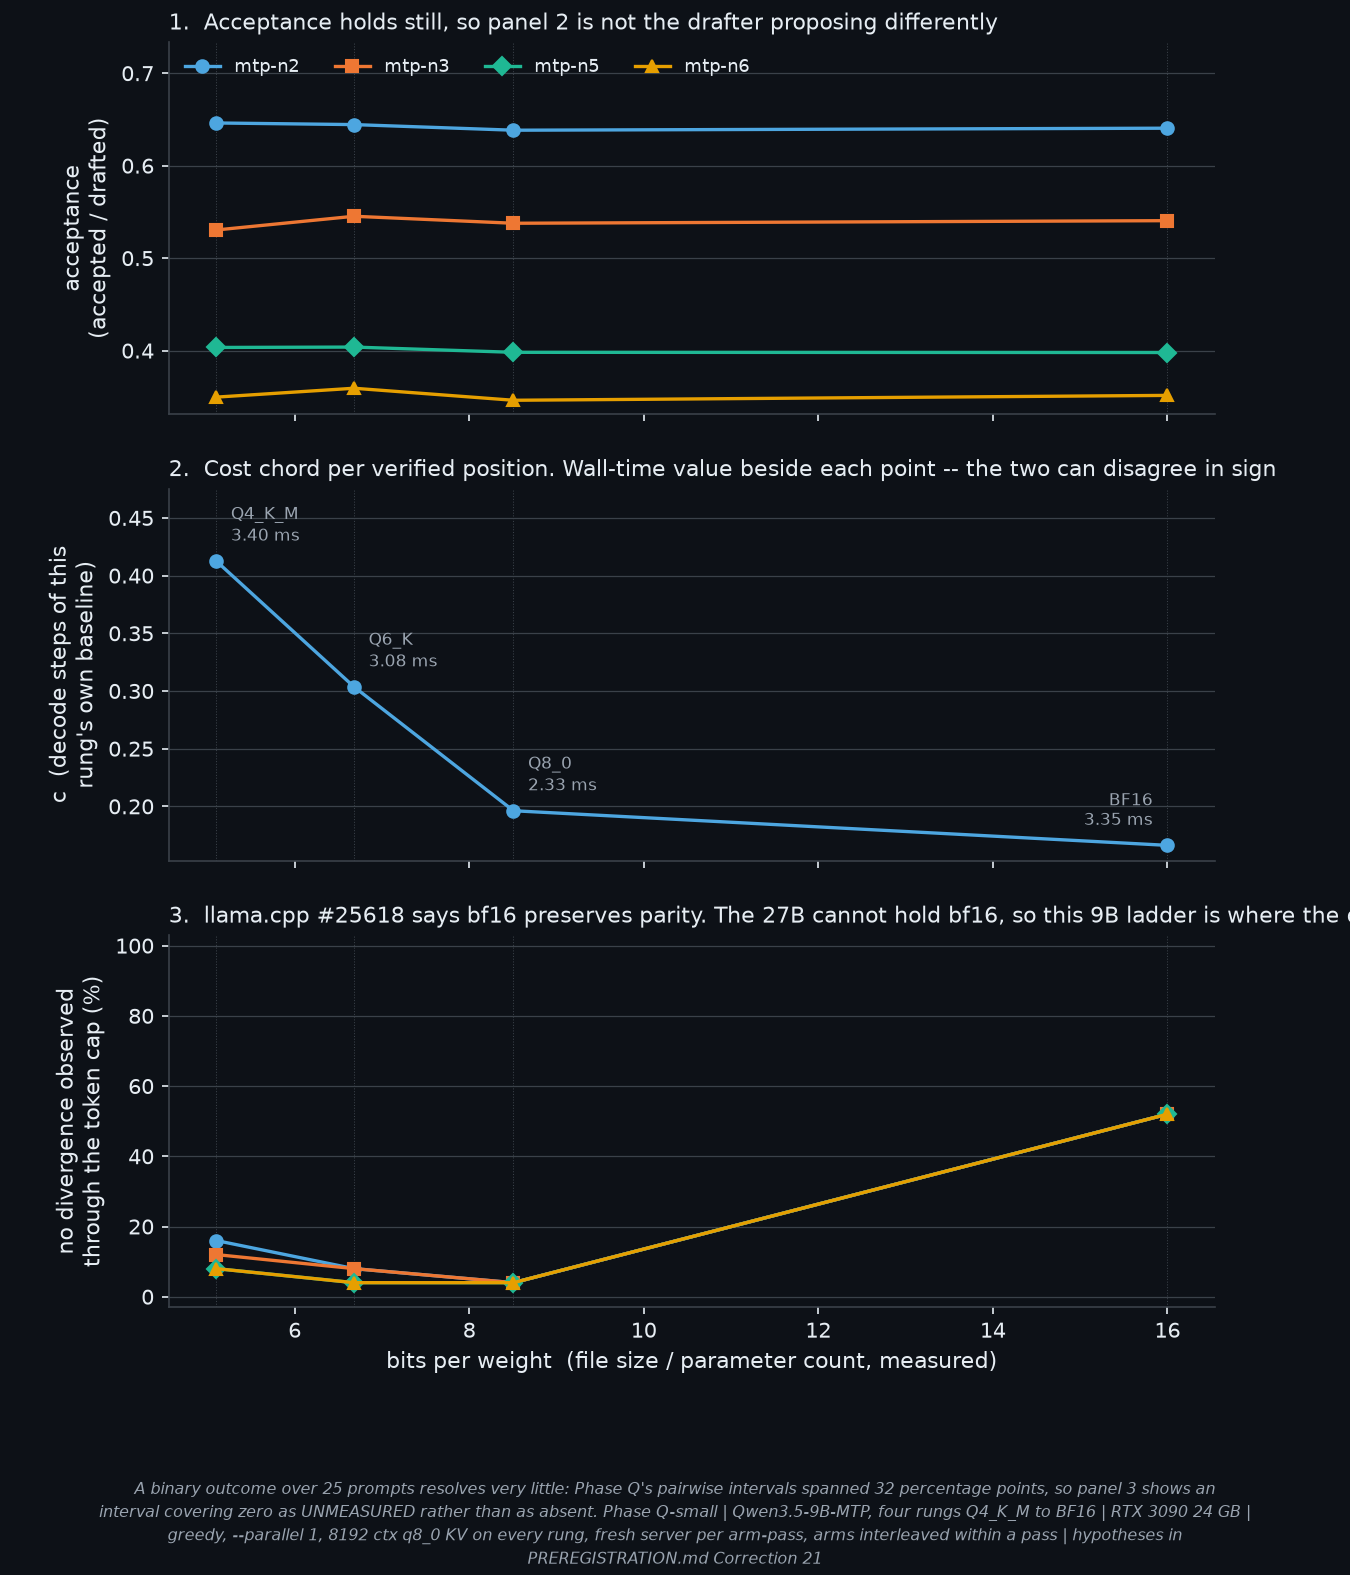
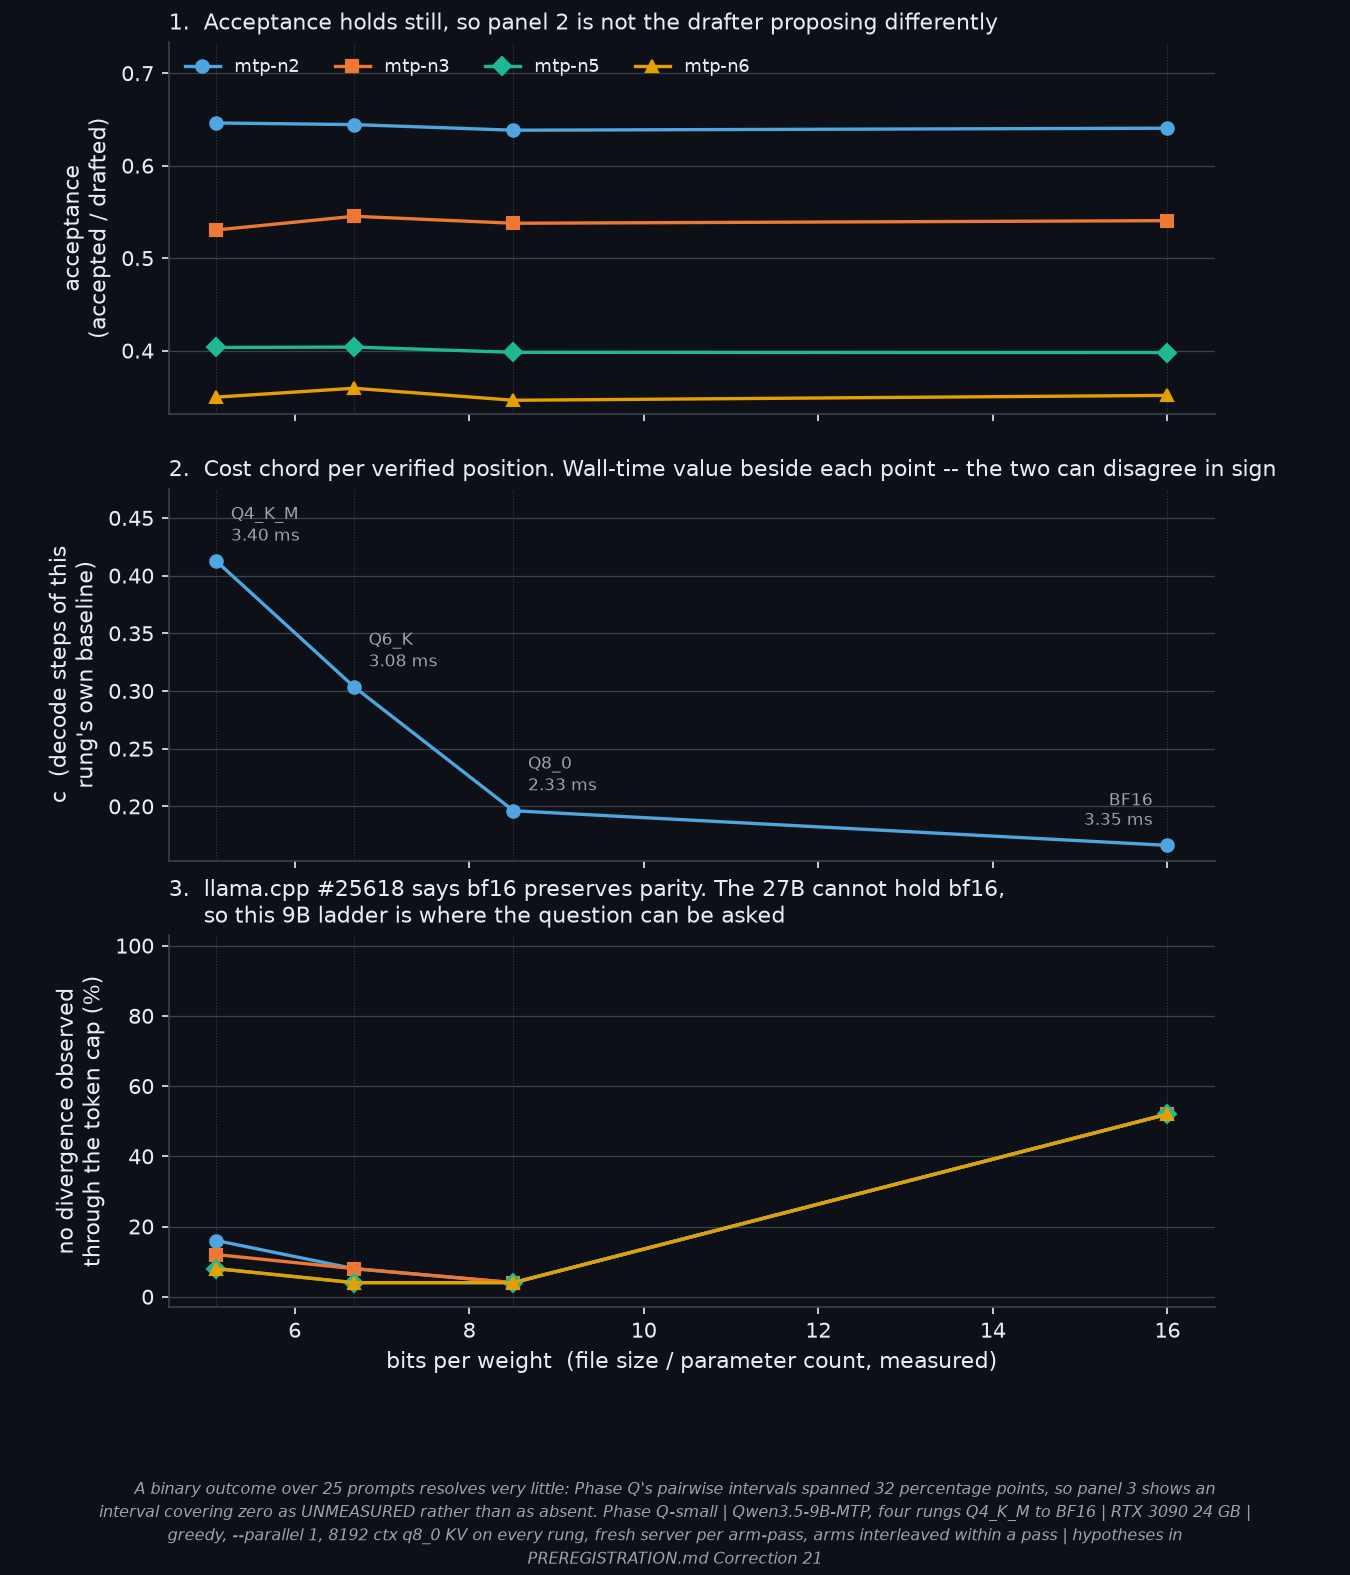
figures: a panel title lost its last two words off the right edge, and nothing could see it
Reading the eight figures as pictures rather than as source, which is the only
way the rest of this round's findings were visible at all.

plot_qsmall_ladder's third panel title read "so this 9B ladder is where the q"
in the committed PNG. The string in the file is complete, so every check that
reads source saw a correct title; the figure did not have one. Wrapped onto two
lines, which is how the other long titles in this repository are set.

`_save` now measures it. After layout and before writing, every visible Text
artist's window extent is compared against the figure bbox, and a figure with
text off the canvas is refused rather than written -- the same place that
already checks pixel width, and the place where the renderer exists, so it is
measured rather than guessed from string length. Two pixels of tolerance,
because a long x-label rounds to one and a clipped word is tens: the planted
mutation ran 798 px over. Tick labels for ticks outside the view are excluded;
the headline figure carries an 80 on an axis that stops at 75.3, and counting
it would have made the check cry wolf on a correct figure.

Read and left standing: plot_dispatch_boundary excludes the width past the
dispatch limit from its fit, draws it as an open marker with the distance
annotated, and says in its footer that drafter and source tree vary together so
the gap between the fits is a configuration difference; plot_phase_m carries
[…]

Changed region(s): [[0.1244, 0.56, 0.9956, 0.5911]]

diff --git a/analysis/plot.py b/analysis/plot.py
@@ -30,6 +30,7 @@ from __future__ import annotations
 
 import sys
 import textwrap
+import matplotlib.text as mtext
 from collections import defaultdict
 from contextlib import contextmanager
 from pathlib import Path
@@ -203,6 +204,9 @@ def _halo(lw=2.2):
     return [pe.withStroke(linewidth=lw, foreground=C("bg"))]
 
 
+CLIP_TOL_PX = 2.0    # rounding on a long x-label measures 1 px; a clipped word is tens
+
+
 def _save(fig, stem, note="", bottom=0.13, provenance=None, top_in=None,
           captured=None, after_layout=None):
     # Footer spacing is computed in inches, not in figure fractions. A fixed fraction is a
@@ -235,8 +239,44 @@ def _save(fig, stem, note="", bottom=0.13, provenance=None, top_in=None,
     if after_layout is not None:
         fig.canvas.draw()
         after_layout(fig)
+    # Text that runs off the canvas is invisible in the committed PNG and silent in every check
+    # that reads the source: plot_qsmall_ladder's third panel title lost "question can be asked"
+    # off the right edge and the string in the file was complete. Measured here, where the
+    # renderer exists, rather than guessed from string length.
+    fig.canvas.draw()
+    rend = fig.canvas.get_renderer()
+    # A tick outside the view keeps its label artist, positioned off the canvas and never drawn.
+    # The headline figure has an 80 on an axis that stops at 75.3, and counting it would have
+    # made this check cry wolf on a correct figure.
+    offview = set()
+    for ax in fig.get_axes():
+        for get_ticks, get_labels, lim in ((ax.get_xticks, ax.get_xticklabels, ax.get_xlim),
+                                           (ax.get_yticks, ax.get_yticklabels, ax.get_ylim)):
+            lo, hi = sorted(lim())
+            for tick, lab in zip(get_ticks(), get_labels()):
+                if not (lo <= tick <= hi):
+                    offview.add(id(lab))
+    clipped = []
+    for t in fig.findobj(mtext.Text):
+        if id(t) in offview:
+            continue
+        if not t.get_visible() or not (t.get_text() or "").strip():
+            continue
+        try:
+            bb = t.get_window_extent(renderer=rend)
+        except Exception:                                          # noqa: BLE001
+            continue
+        if bb.width <= 0 or bb.height <= 0:
+            continue
+        over = max(bb.x0 * -1, bb.x1 - fig.bbox.x1, bb.y0 * -1, bb.y1 - fig.bbox.y1)
+        if over > CLIP_TOL_PX:
+            clipped.append((over, t.get_text().replace("\n", " ")[:60]))
     name = f"{stem}.png" if _MODE == "light" else f"{stem}_dark.png"
     p = OUT / name
+    if clipped:
+        detail = "; ".join(f"{txt!r} by {over:.0f} px" for over, txt in sorted(clipped, reverse=True))
+        raise SystemExit(f"REFUSED to write {name}: text runs off the canvas and would be "
+                         f"invisible in the committed figure -- {detail}")
     fig.savefig(p, dpi=DPI)
     plt.close(fig)
     px = int(w_in * DPI)

diff --git a/analysis/plot_qsmall_ladder.py b/analysis/plot_qsmall_ladder.py
@@ -128,8 +128,9 @@ def build(rungs, shared, bpw):
     ax.set_ylabel("no divergence observed\nthrough the token cap (%)")
     ax.set_xlabel("bits per weight  (file size / parameter count, measured)")
     # "the only ladder that can ask" is a claim about the world; the reason is the one to state.
-    ax.set_title("3.  llama.cpp #25618 says bf16 preserves parity. The 27B cannot hold bf16, "
-                 "so this 9B ladder is where the question can be asked",
+    # One line ran past the axes and the last two words were clipped out of the committed PNG.
+    ax.set_title("3.  llama.cpp #25618 says bf16 preserves parity. The 27B cannot hold bf16,\n"
+                 "     so this 9B ladder is where the question can be asked",
                  loc="left", fontsize=10.5, color=P.C("fg"))
     ax.set_ylim(-3, 103)
     P._despine(ax)
